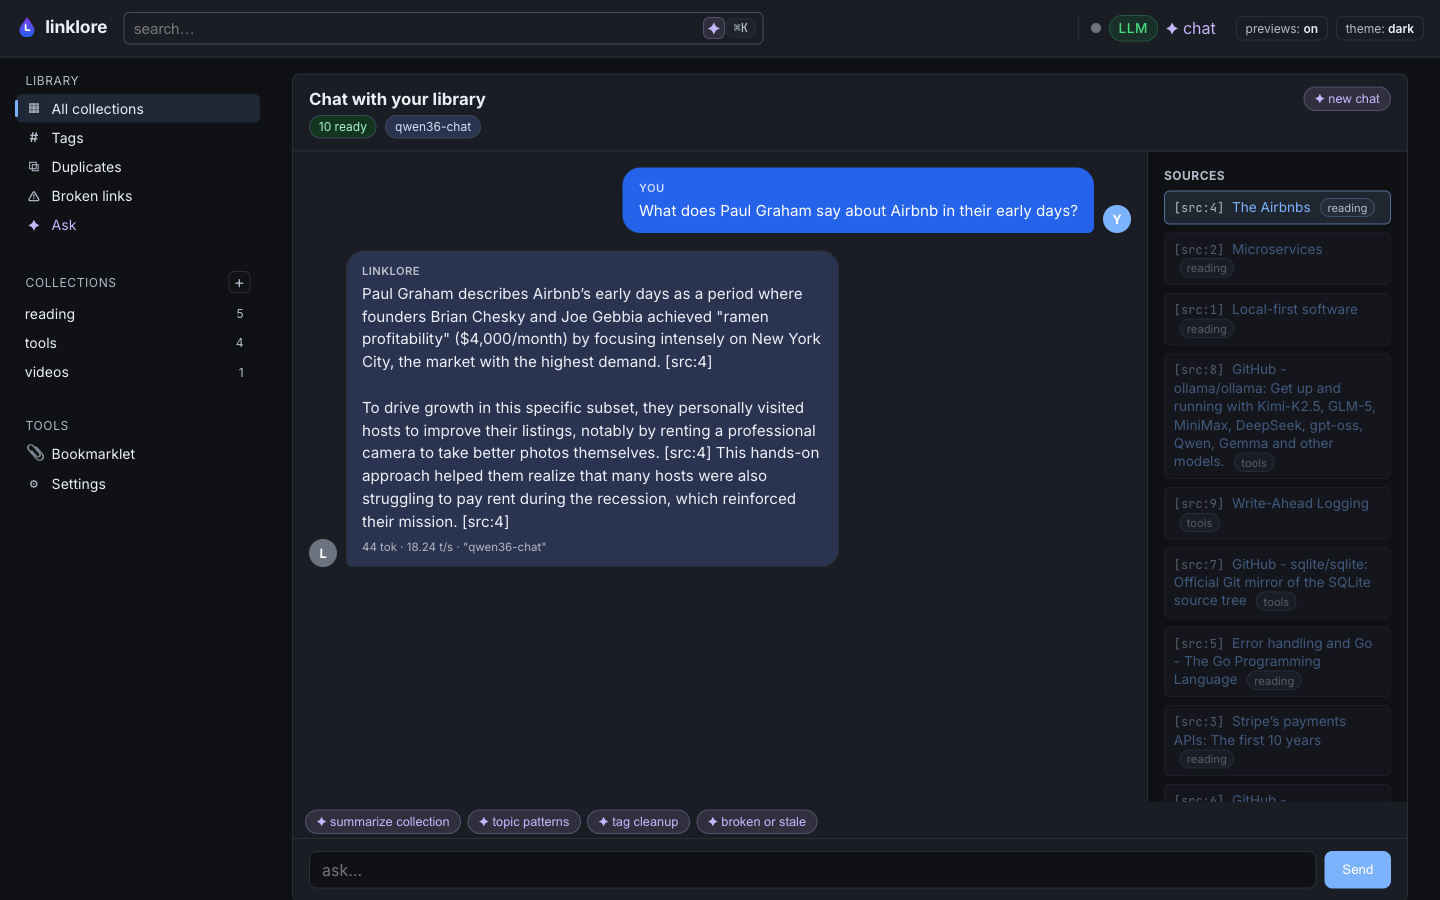
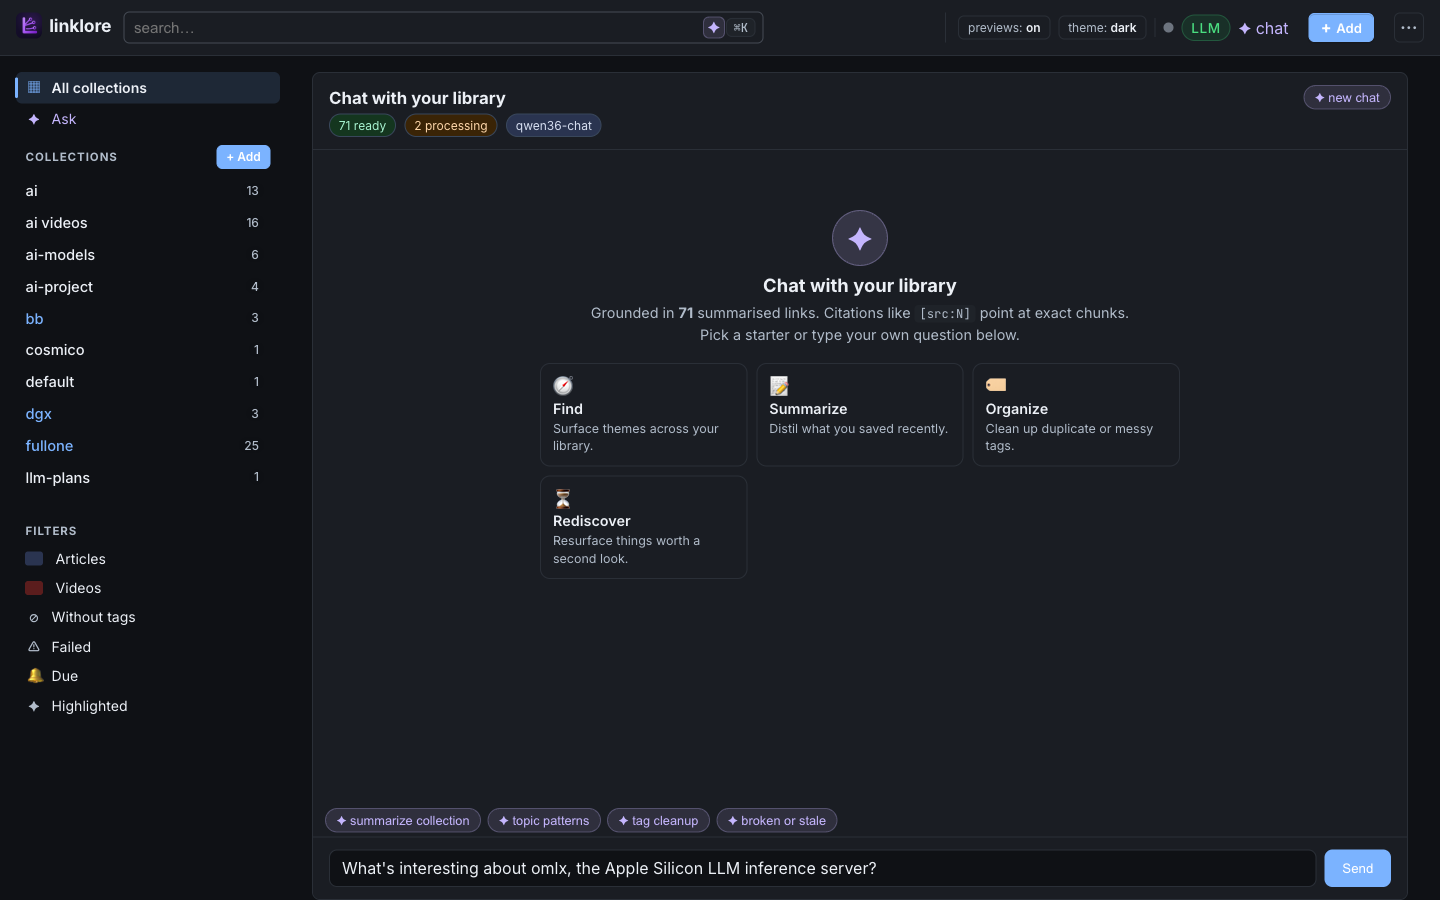
fix(summarize): pin tldr to detected document language + refresh screenshots [skip ci]
- summarize: detect doc language with a tiny stopword heuristic
  (en/it/es/fr/de, defaults to en) and inject 'Document language:
  <lang>' as a hard fact in the prompt + hoist the language rule to
  the top of Rules. Fixes the symptom where qwen would output an
  Italian tldr for an English article (visible in the README's
  04-drawer.png) — the model was following user-locale bias because
  the soft 'match the document language' instruction was buried.
  Verified end-to-end via /links/125/reindex.
- screenshots: re-shoot 00-hero, 01-home, 02-chat, 03-collection,
  04-drawer, 06-moodboard, 09-overflow-menu against the new topbar
  (previews/theme pref pills moved out of the overflow menu, new
  PNG brand-mark, divider before LLM status). 04-drawer now shows
  an English tldr for an English article.

diff --git a/internal/summarize/summarize.go b/internal/summarize/summarize.go
@@ -105,15 +105,16 @@ func truncateBody(body string, max int) string {
 }
 
 func buildPrompt(title, body string, existing []string, maxTags int) string {
+	docLang := detectLang(title + "\n" + body)
 	var b strings.Builder
 	b.WriteString("You are a precise summariser for a personal link library.\n")
-	b.WriteString("Write the tldr in the SAME language as the document (Italian doc → Italian tldr; English → English; etc.). Tags stay in lowercase ASCII regardless.\n")
 	b.WriteString("Respond with ONE valid JSON object — no prose, no code fences.\n\n")
 	b.WriteString("Schema:\n")
-	b.WriteString(`{"tldr": "<= 60 words explaining what this is and why it matters, in the document's language", "tags": ["slug-1", "slug-2", ...]}`)
+	b.WriteString(`{"tldr": "<= 60 words explaining what this is and why it matters", "tags": ["slug-1", "slug-2", ...]}`)
 	b.WriteString("\n\nRules:\n")
+	fmt.Fprintf(&b, "- LANGUAGE: write the tldr in %s — the document's language. This overrides any other language preference, including the language of these instructions or your user's locale. Tags stay in lowercase ASCII regardless.\n", langName(docLang))
 	b.WriteString("- tldr: at most 60 words, plain prose, no markdown, no quotes around it.\n")
-	b.WriteString(fmt.Sprintf("- tags: between 1 and %d short topical labels (lowercase, hyphenated, ASCII).\n", maxTags))
+	fmt.Fprintf(&b, "- tags: between 1 and %d short topical labels (lowercase, hyphenated, ASCII).\n", maxTags)
 	if len(existing) > 0 {
 		b.WriteString("- Prefer REUSING the existing tag slugs below over inventing near-duplicates:\n  ")
 		// Cap injected list so the prompt doesn't blow up on very large taxonomies.
@@ -124,12 +125,66 @@ func buildPrompt(title, body string, existing []string, maxTags int) string {
 		b.WriteString(strings.Join(existing, ", "))
 		b.WriteString("\n")
 	}
+	b.WriteString("\nDocument language: ")
+	b.WriteString(langName(docLang))
 	b.WriteString("\nTitle: ")
 	b.WriteString(title)
 	b.WriteString("\n\nDocument:\n")
 	b.WriteString(body)
 	b.WriteString("\n\nJSON:")
 	return b.String()
+}
+
+// detectLang is a tiny stopword-frequency heuristic: counts hits for the
+// most common English / Italian / Spanish / French / German function words
+// in a sample window and picks the winner. Returns ISO 639-1 codes;
+// defaults to "en" when the signal is too weak (short text or no hits).
+// We need this because the model sometimes ignores soft "match the
+// document language" prompts and falls back to its training-set bias or
+// the user's locale — injecting a deterministic language label removes
+// the ambiguity.
+func detectLang(text string) string {
+	const sample = 4000
+	if len(text) > sample {
+		text = text[:sample]
+	}
+	lower := strings.ToLower(text)
+	stopwords := map[string][]string{
+		"en": {" the ", " and ", " of ", " to ", " is ", " in ", " that ", " for ", " with ", " on "},
+		"it": {" il ", " la ", " di ", " che ", " e ", " un ", " una ", " per ", " non ", " con "},
+		"es": {" el ", " la ", " de ", " que ", " y ", " un ", " una ", " para ", " no ", " con "},
+		"fr": {" le ", " la ", " de ", " et ", " un ", " une ", " pour ", " que ", " dans ", " avec "},
+		"de": {" der ", " die ", " das ", " und ", " ist ", " ein ", " eine ", " mit ", " nicht ", " für "},
+	}
+	bestLang, bestScore := "en", 0
+	for lang, words := range stopwords {
+		score := 0
+		for _, w := range words {
+			score += strings.Count(lower, w)
+		}
+		if score > bestScore {
+			bestLang, bestScore = lang, score
+		}
+	}
+	if bestScore < 3 {
+		return "en"
+	}
+	return bestLang
+}
+
+func langName(code string) string {
+	switch code {
+	case "it":
+		return "Italian"
+	case "es":
+		return "Spanish"
+	case "fr":
+		return "French"
+	case "de":
+		return "German"
+	default:
+		return "English"
+	}
 }
 
 func buildRetryPrompt(prev, badResponse string) string {

diff --git a/internal/summarize/summarize_test.go b/internal/summarize/summarize_test.go
@@ -113,6 +113,27 @@ func TestSummarize_capPerLinkApplied(t *testing.T) {
 	}
 }
 
+func TestBuildPrompt_languageHint(t *testing.T) {
+	cases := []struct {
+		name, body, wantLang string
+	}{
+		{"english", "The quick brown fox jumps over the lazy dog and the cat is on the mat with the bird in the tree.", "English"},
+		{"italian", "Il gatto è sul tavolo e la finestra è aperta. Una giornata di sole, con un libro per leggere e non dormire.", "Italian"},
+		{"short noisy → defaults to english", "x y z", "English"},
+	}
+	for _, tc := range cases {
+		t.Run(tc.name, func(t *testing.T) {
+			p := buildPrompt("title", tc.body, nil, 5)
+			if !strings.Contains(p, "Document language: "+tc.wantLang) {
+				t.Errorf("missing 'Document language: %s' in prompt:\n%s", tc.wantLang, p)
+			}
+			if !strings.Contains(p, "LANGUAGE: write the tldr in "+tc.wantLang) {
+				t.Errorf("missing LANGUAGE rule for %s in prompt", tc.wantLang)
+			}
+		})
+	}
+}
+
 func TestSummarize_existingTagsInjectedInPrompt(t *testing.T) {
 	rec := &recordingBackend{out: `{"tldr":"x","tags":[]}`}
 	s := New(rec, Default())
